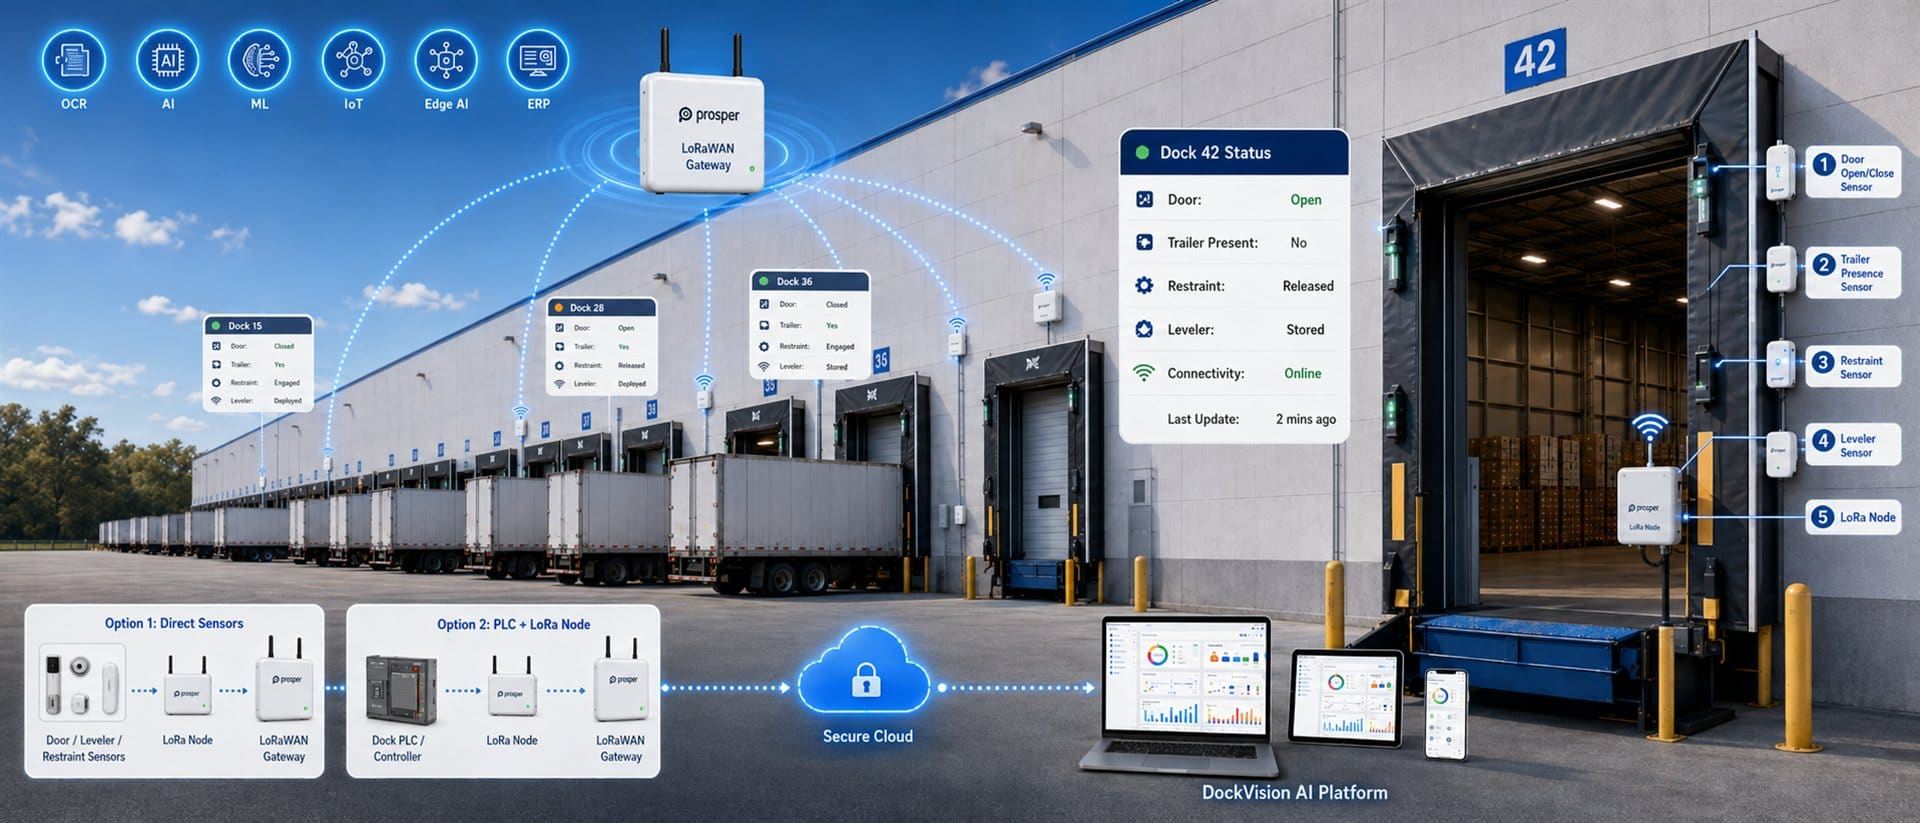
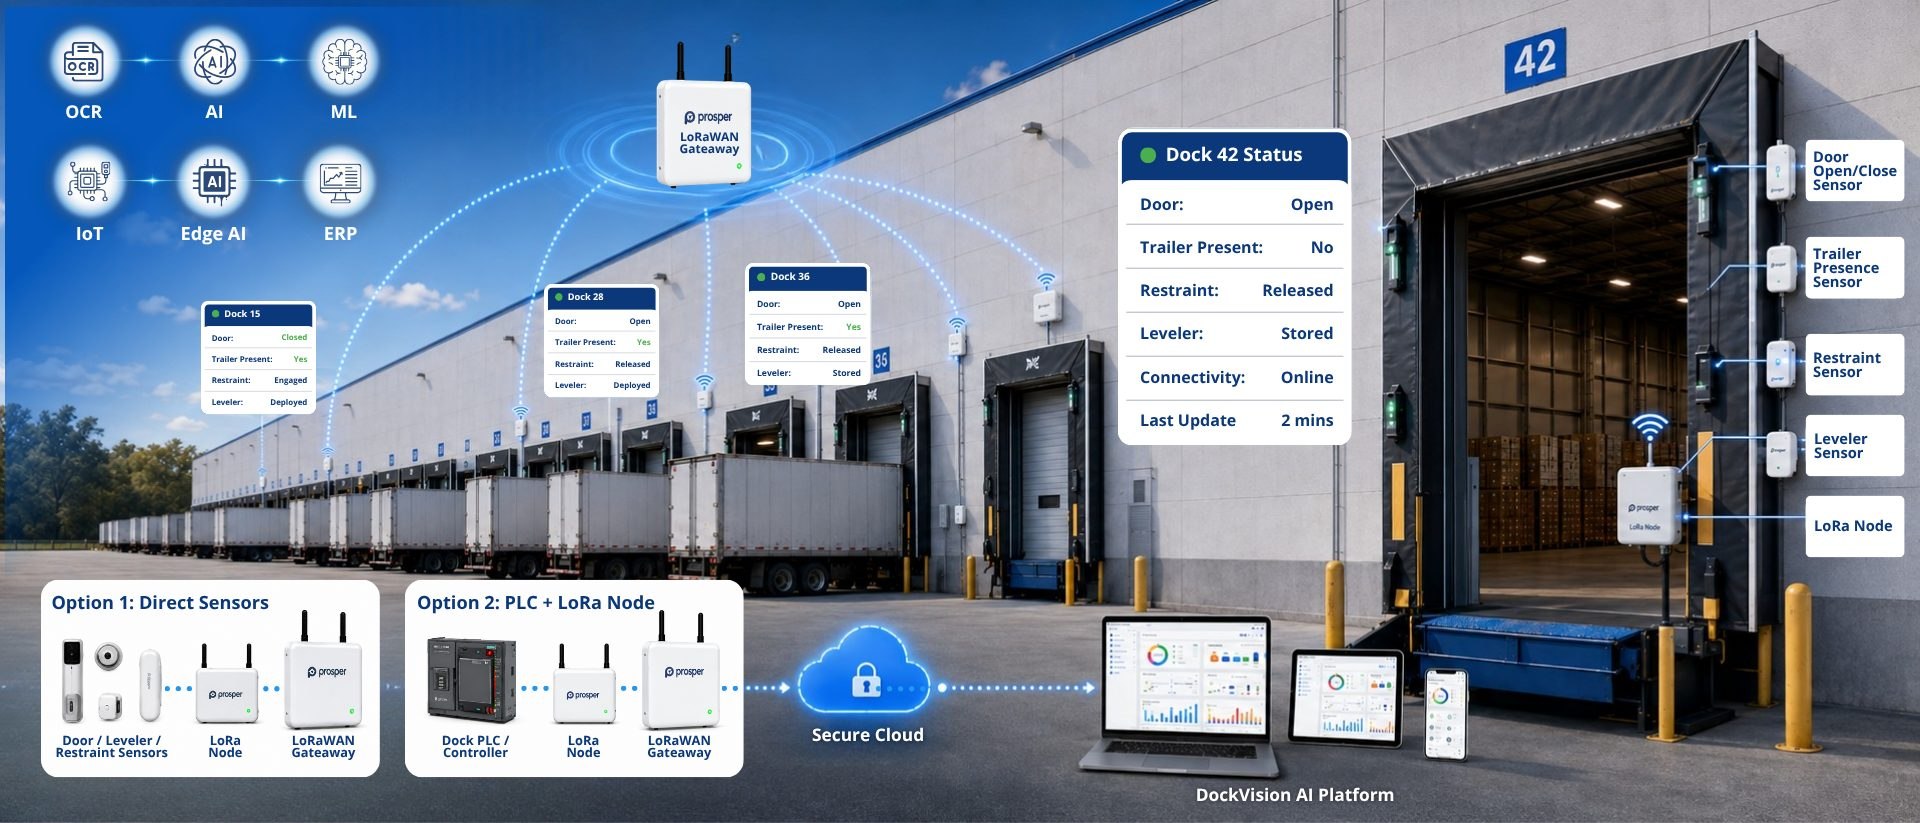
Update slide 5 image and lighten its dark overlay
- Swap slide 5 background for the latest DockVisionAi.png,
  compressed from ~2.6MB to ~260KB
- Add a lightOverlay flag so this slide uses a lighter gradient
  treatment (no full-image black wash, no mid-band darkening),
  since the image needs to stay readable on its own. Other slides
  keep their original contrast overlay.

diff --git a/src/components/sections/Hero.jsx b/src/components/sections/Hero.jsx
@@ -51,6 +51,7 @@ const SLIDES = [
     title: 'DockVision AI — AI-Powered Dock Door Monitoring Solution',
     highlightWords: ['DockVision', 'AI-Powered'],
     subtitle: 'Live dock status, automated alerts, and real-time dashboards right on the floor.',
+    lightOverlay: true,
   },
   {
     image: slideDistributionCenter,
@@ -218,10 +219,20 @@ export default function Hero() {
         />
       </AnimatePresence>
 
-      <div className="pointer-events-none absolute inset-0 bg-black/20" />
-      <div className="pointer-events-none absolute inset-x-0 top-0 h-[38%] bg-gradient-to-b from-black/70 via-black/25 to-transparent" />
-      <div className="pointer-events-none absolute inset-x-0 bottom-0 h-[38%] bg-gradient-to-t from-black/75 via-black/25 to-transparent" />
-      <div className="pointer-events-none absolute inset-x-0 top-[20%] bottom-[20%] z-[5] bg-gradient-to-b from-transparent via-black/40 to-transparent" />
+      {!slide.lightOverlay && <div className="pointer-events-none absolute inset-0 bg-black/20" />}
+      <div
+        className={`pointer-events-none absolute inset-x-0 top-0 h-[38%] bg-gradient-to-b to-transparent ${
+          slide.lightOverlay ? 'from-black/40 via-black/10' : 'from-black/70 via-black/25'
+        }`}
+      />
+      <div
+        className={`pointer-events-none absolute inset-x-0 bottom-0 h-[38%] bg-gradient-to-t to-transparent ${
+          slide.lightOverlay ? 'from-black/45 via-black/10' : 'from-black/75 via-black/25'
+        }`}
+      />
+      {!slide.lightOverlay && (
+        <div className="pointer-events-none absolute inset-x-0 top-[20%] bottom-[20%] z-[5] bg-gradient-to-b from-transparent via-black/40 to-transparent" />
+      )}
 
       {arrows}
 
